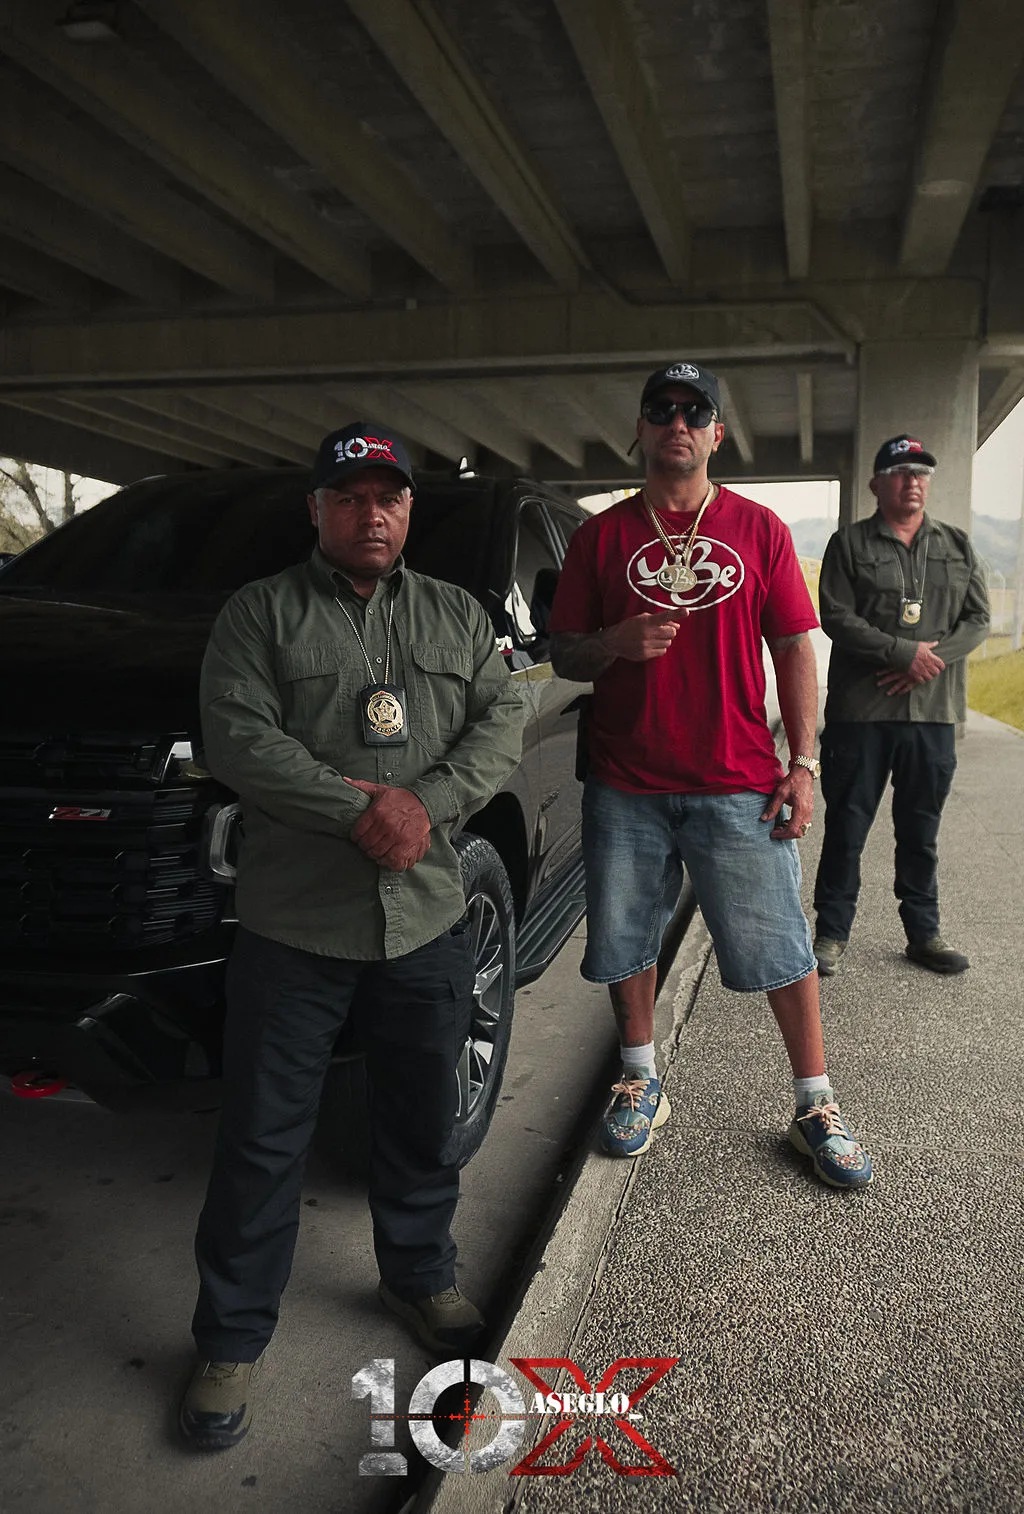
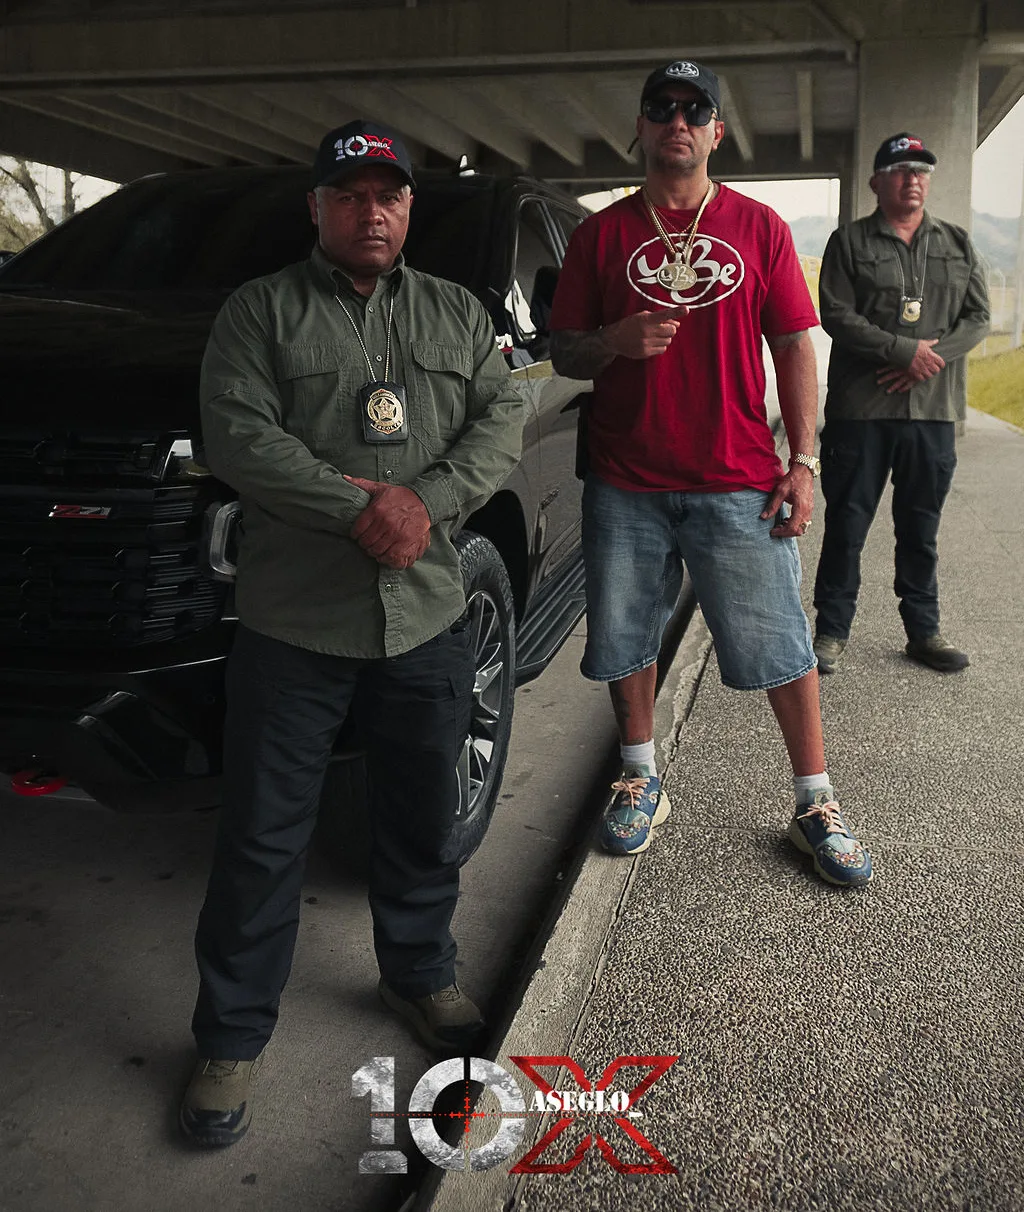
fix: subir la foto del hero mobile (recorte del techo del puente para que el texto no tape las caras)

diff --git a/src/components/HeroSection.tsx b/src/components/HeroSection.tsx
@@ -14,7 +14,7 @@ const HeroSection = () => {
     <section className="relative min-h-screen flex items-end md:items-center overflow-hidden pt-24 pb-48 md:pb-0">
       {/* Background */}
       <div className="absolute inset-0">
-        <img src={heroBgMobile} alt="10X ASEGLO Seguridad" className="w-full h-full object-cover object-[22%_top] md:hidden" width={1024} height={1514} />
+        <img src={heroBgMobile} alt="10X ASEGLO Seguridad" className="w-full h-full object-cover object-[22%_top] md:hidden" width={1024} height={1212} />
         <img src={heroBg} alt="10X ASEGLO Seguridad" className="w-full h-full object-cover hidden md:block" width={1920} height={1080} />
         <div className="absolute inset-0 bg-gradient-to-r from-background via-background/60 to-background/10 hidden md:block" />
         <div className="absolute inset-0 bg-gradient-to-t from-background/70 via-transparent to-transparent hidden md:block" />
